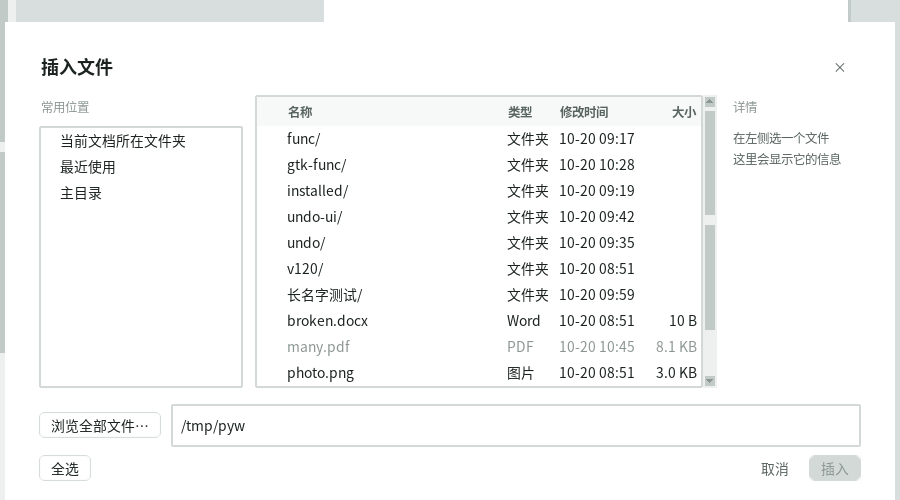
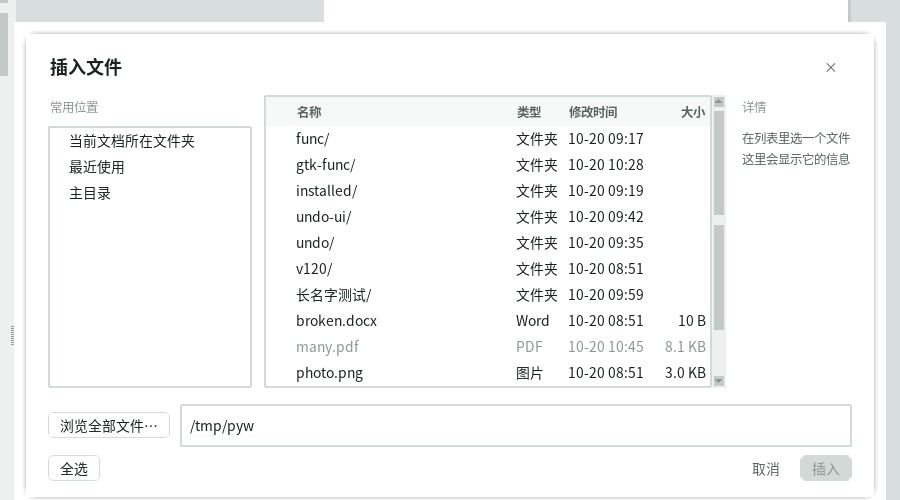
fix(ui): 详情栏文字不再被切掉（按文本自适应宽度）

diff --git a/gui/file_sheet.py b/gui/file_sheet.py
@@ -127,9 +127,11 @@ class FileSheet(Sheet):
         right.grid(row=0, column=2, sticky='nse', padx=(14, 0))
         ttk.Label(right, text='详情', style='Paper.TLabel', font=font('meta'),
                   foreground=INK_3).pack(anchor='w', pady=(0, 6))
-        self.info_label = tk.Label(right, text='在中间的列表里选一个文件\n这里会显示它的信息',
+        # 不要用 width=（字符数）：中日韩字体的字宽和"字符"对不上，
+        # 宽度算小了文字会被切掉。让它按文本自适应。
+        self.info_label = tk.Label(right, text='在列表里选一个文件\n这里会显示它的信息',
                                    bg=PAPER, fg=INK_2, font=font('meta'),
-                                   justify='left', width=18, anchor='w')
+                                   justify='left', anchor='w')
         self.info_label.pack(anchor='w')
 
     def _build_footer(self, confirm_text):
